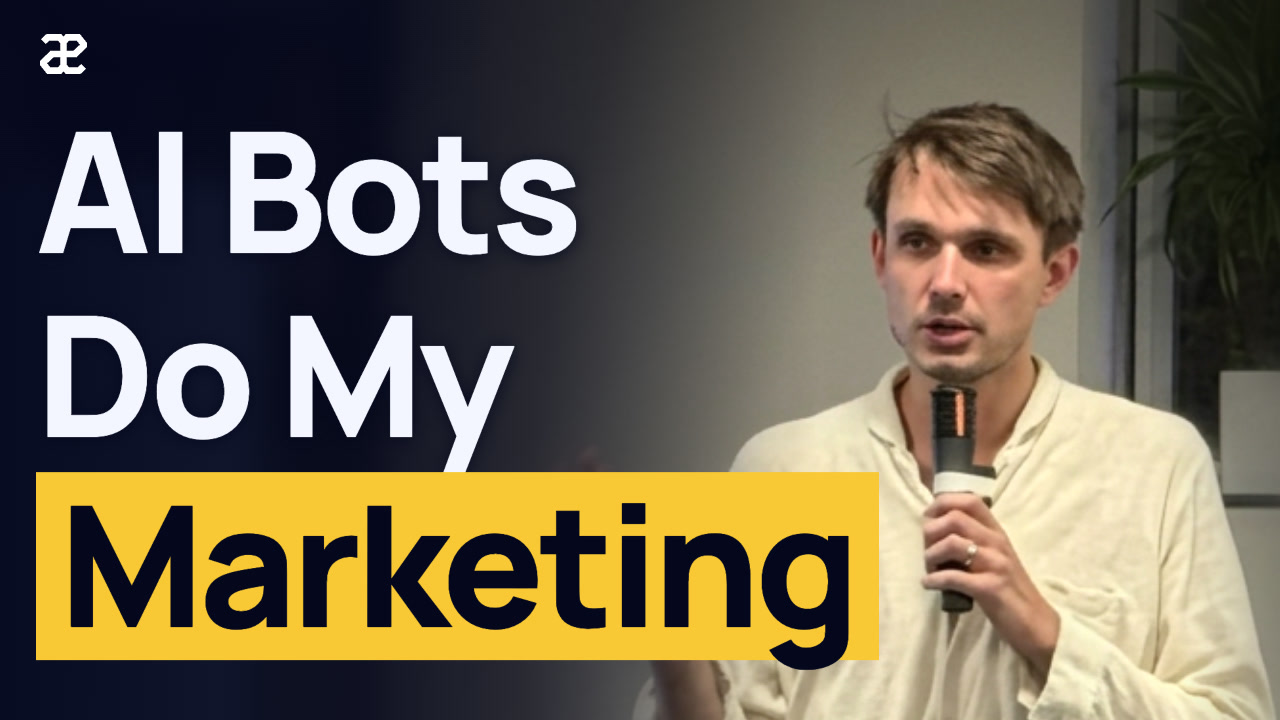
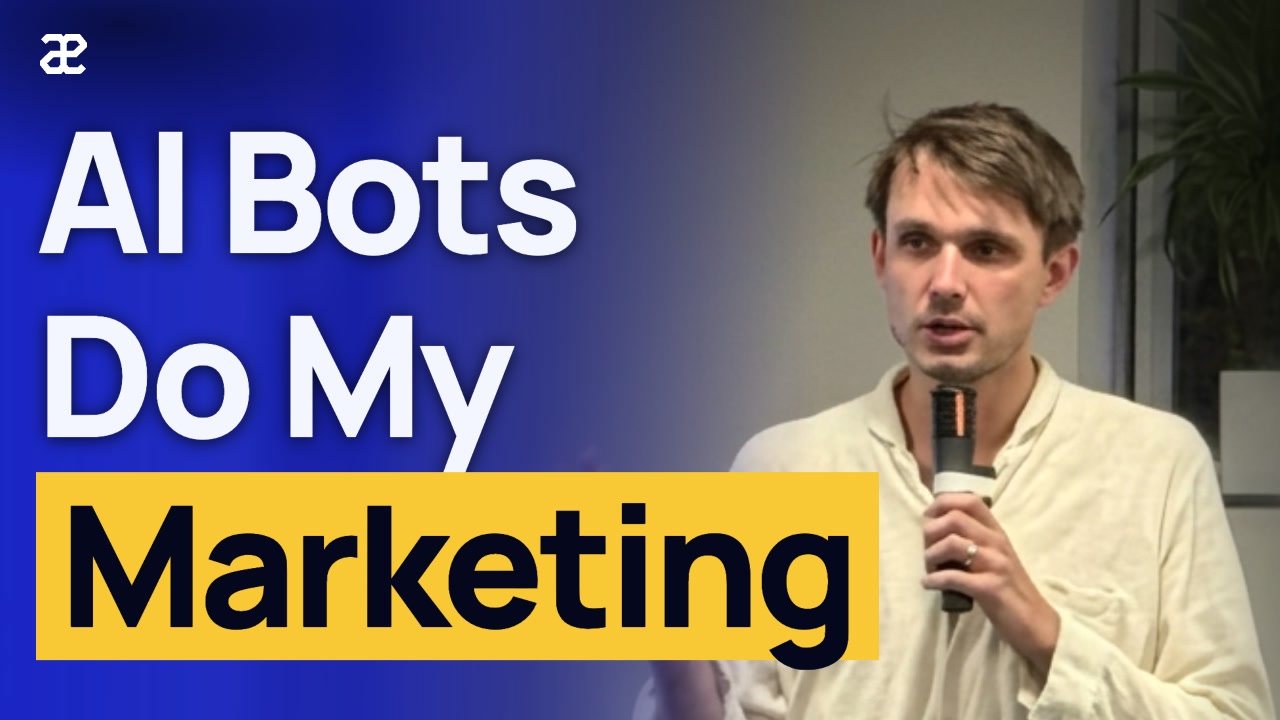
Thumbnails: electric blue wash behind the hook, yellow highlight

diff --git a/scripts/thumbnail.html b/scripts/thumbnail.html
@@ -24,6 +24,8 @@
 <body><div id="stage"><canvas id="c" width="1280" height="720"></canvas><div id="ui"></div></div>
 <script>
 const CFG = /*CFG*/null, W = 1280, H = 720;
+// Colours: the wash behind the hook is the brand's electric blue, the highlight its signal yellow.
+const THEME = { tint: ['24,34,200'] };
 const clamp = (v, a, b) => Math.max(a, Math.min(b, v));
 
 // The layout is decided in this order:
@@ -94,9 +96,15 @@ function render(img, sharp, left, at) {
 
   // Navy from the hook's side, fading out before the speaker.
   const edge = left ? W : 0, dir = left ? -1 : 1, fade = 820;
-  const lg = ctx.createLinearGradient(edge, 0, edge + dir * fade, 0);
-  lg.addColorStop(0, 'rgba(5,7,30,0.96)'); lg.addColorStop(0.45, 'rgba(5,7,30,0.8)'); lg.addColorStop(1, 'rgba(5,7,30,0)');
-  ctx.fillStyle = lg; ctx.fillRect(Math.min(edge, edge + dir * fade), 0, fade, H);
+  // Its colour is the theme's: one tint, or two blended top to bottom.
+  const [ta, tb] = THEME.tint, wash = new OffscreenCanvas(W, H), w = wash.getContext('2d');
+  const vg = w.createLinearGradient(0, 0, 0, H);
+  vg.addColorStop(0, `rgb(${ta})`); vg.addColorStop(1, `rgb(${tb || ta})`);
+  w.fillStyle = vg; w.fillRect(0, 0, W, H);
+  const lg = w.createLinearGradient(edge, 0, edge + dir * fade, 0);
+  lg.addColorStop(0, 'rgba(0,0,0,0.96)'); lg.addColorStop(0.45, 'rgba(0,0,0,0.8)'); lg.addColorStop(1, 'rgba(0,0,0,0)');
+  w.globalCompositeOperation = 'destination-in'; w.fillStyle = lg; w.fillRect(0, 0, W, H);
+  ctx.drawImage(wash, 0, 0);
 
   // A dark corner behind the signature.
   ctx.save(); ctx.scale(1, 0.42);
@@ -115,7 +123,9 @@ const load = (src) => new Promise((ok, no) => {
   // The speaker keeps their side of the photo and the hook takes the other.
   // Never mirror the photo: slides and name tags have text.
   const left = CFG.face.x < img.width / 2;
-  document.getElementById('stage').classList.add(left ? 'left' : 'right');
+  const stage = document.getElementById('stage');
+  stage.classList.add(left ? 'left' : 'right');
+
   // The yellow block marks the words that carry the point: a *phrase* inside
   // a line, a whole line that starts with *, or else the last line.
   const any = CFG.hook.some((l) => l.includes('*'));

diff --git a/.claude/skills/thumbnail-critic/SKILL.md b/.claude/skills/thumbnail-critic/SKILL.md
@@ -154,6 +154,10 @@ Judge it as a designer would, independent of the hook.
   The text itself is as large as it can be. Crowded beats empty. Name any
   thumbnail where the head is off-centre in its gap, clipped at the top,
   touched by text, or smaller than the gap allows.
+- **House colours.** The wash behind the hook is the brand's electric blue
+  and the highlight is signal yellow on navy text: the channel's blue, with
+  one warm colour to catch the eye. The owner chose this over navy, violet
+  and all-blue variants.
 - **Even across the set.** On the contact sheet, the hooks should look close
   in type size and the photos close in brightness. Name any thumbnail whose
   text is clearly smaller or whose speaker is clearly darker than the rest;
